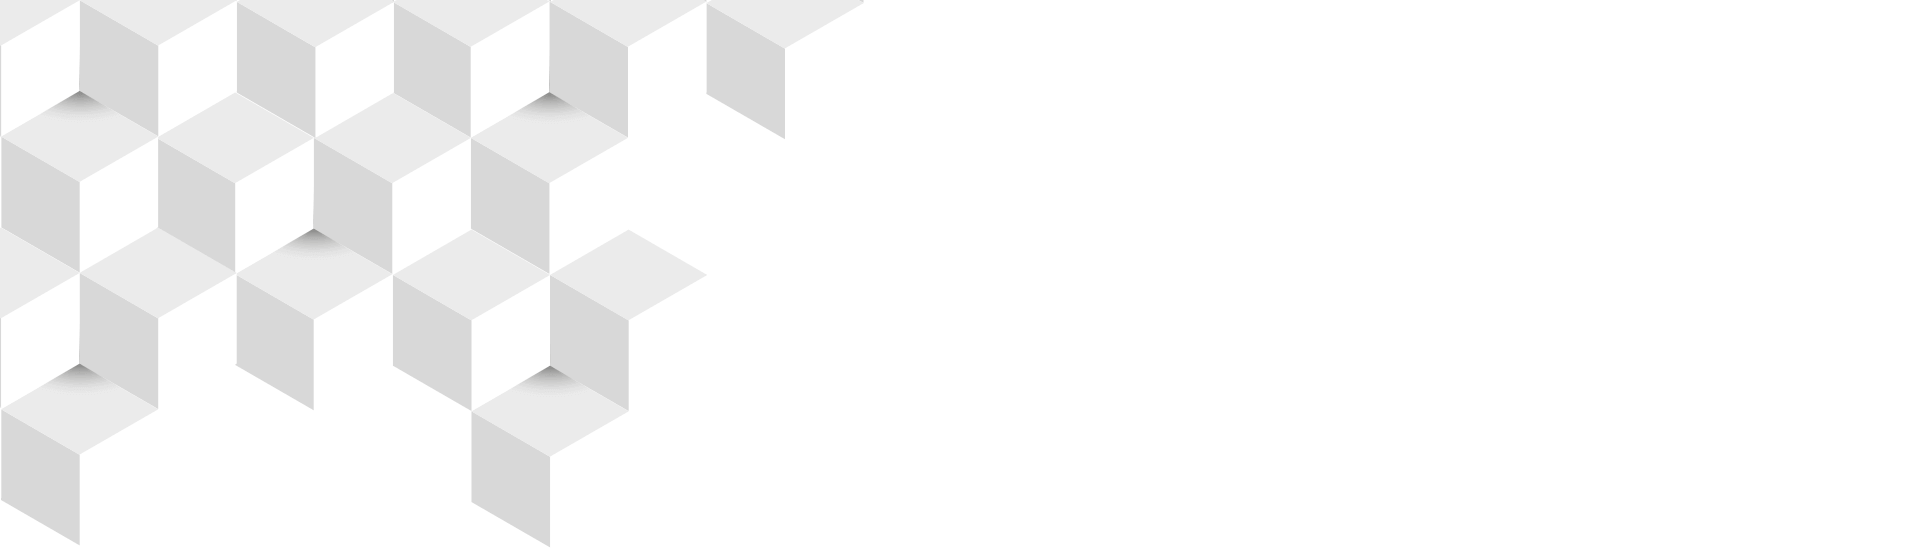
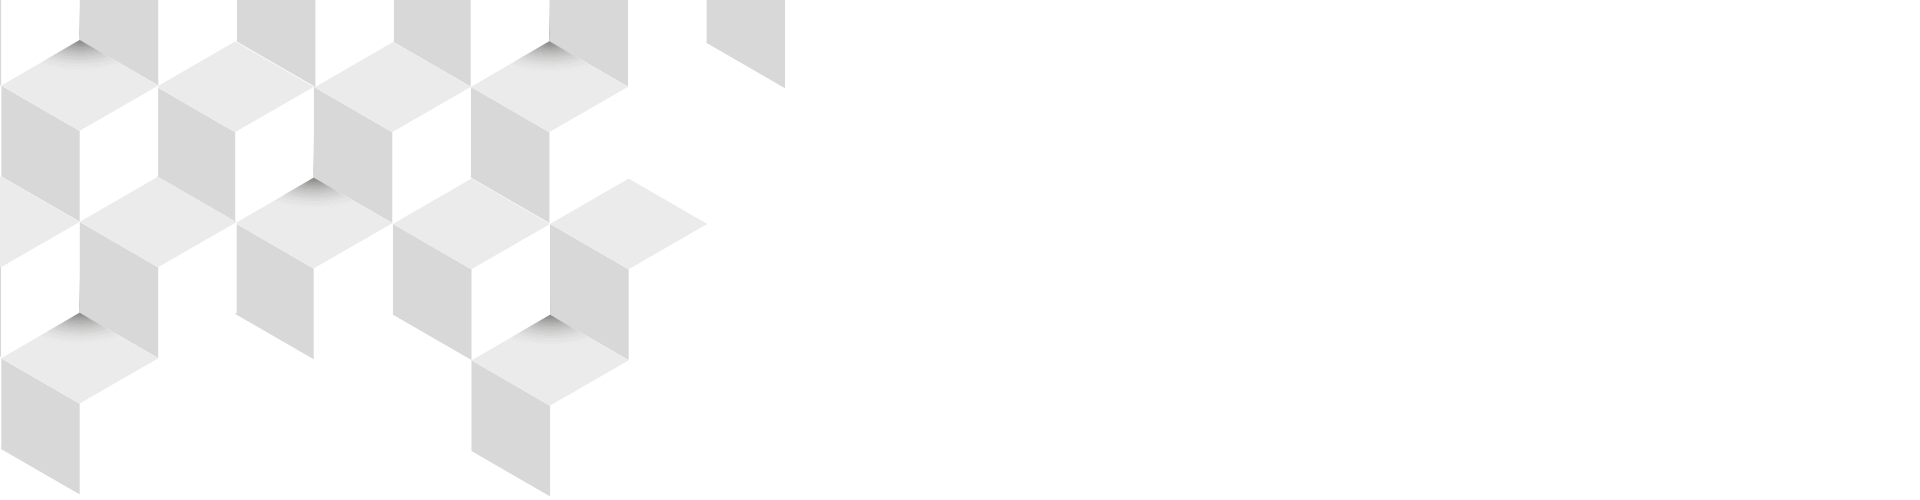
modify team member

diff --git a/css/style.css b/css/style.css
@@ -665,9 +665,10 @@ html, body {
 
 .team {
     width: 100%;
-    height: 2000px;
+    height: auto;
     background: url(../img/team_top.png) center top no-repeat, url(../img/team_bottom.png) center bottom no-repeat;
     background-color: #fff;
+    padding-bottom: 200px;
 }
 
 @media only screen and (max-width: 1120px) {
@@ -1121,11 +1122,9 @@ html, body {
 .teambox {
     position: relative;
     margin: auto;
-    width: 60%;
     height: auto;
-    padding-top: 55px;
     display: flex;
-    width: 70%;
+    width: 80%;
     justify-content: space-around;
     transform: translateX(35px);
 }

diff --git a/css/style_en.css b/css/style_en.css
@@ -666,9 +666,10 @@ html, body {
 
 .team {
     width: 100%;
-    height: 2350px;
+    height: auto;
     background: url(../img/team_top.png) center top no-repeat, url(../img/team_bottom.png) center bottom no-repeat;
     background-color: #fff;
+    padding-bottom: 200px;
 }
 
 @media only screen and (max-width: 1120px) {
@@ -1125,11 +1126,9 @@ html, body {
 .teambox {
     position: relative;
     margin: auto;
-    width: 60%;
     height: auto;
-    padding-top: 55px;
     display: flex;
-    width: 70%;
+    width: 80%;
     justify-content: space-around;
     transform: translateX(35px);
 }

diff --git a/index_zh.html b/index_zh.html
@@ -226,7 +226,7 @@
         </div>
       </div>
 
-      <div class="teambox">
+      <!-- <div class="teambox">
 
         <div class="info">
           <div class="pic">
@@ -290,7 +290,7 @@
           </div>
         </div>
         
-      </div>
+      </div> -->
     </div>
   </div>
   <div id="a05" class="news">

diff --git a/index.html b/index.html
@@ -276,7 +276,7 @@
         </div>
       </div>
 
-      <div class="teambox">
+      <!-- <div class="teambox">
 
         <div class="info">
           <div class="pic">
@@ -346,7 +346,7 @@
           </div>
         </div>
       
-      </div>
+      </div> -->
     </div>
   </div>
   <div id="a05" class="news">
